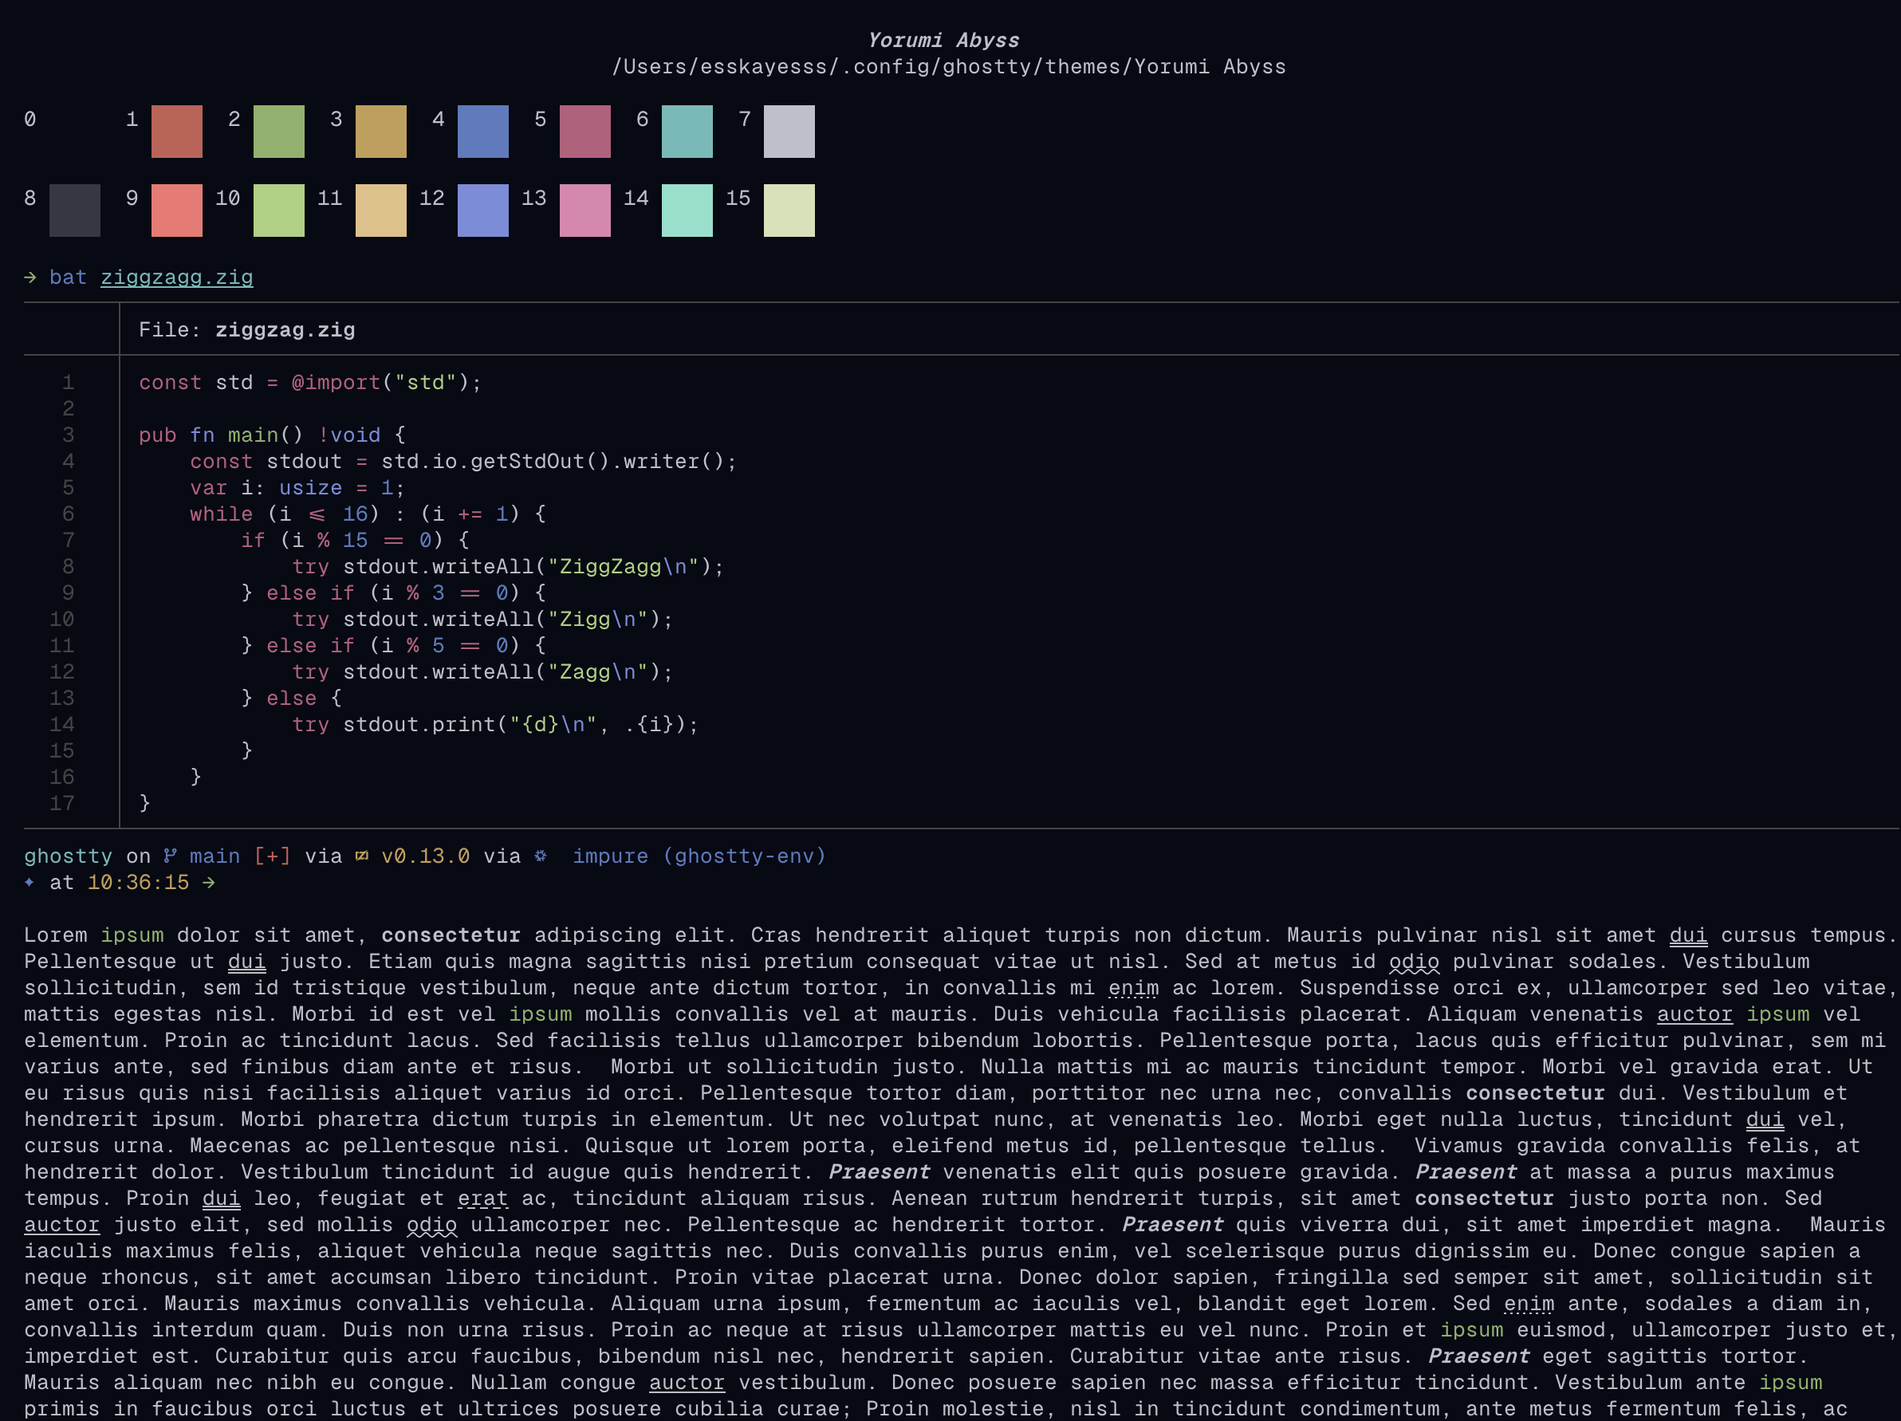
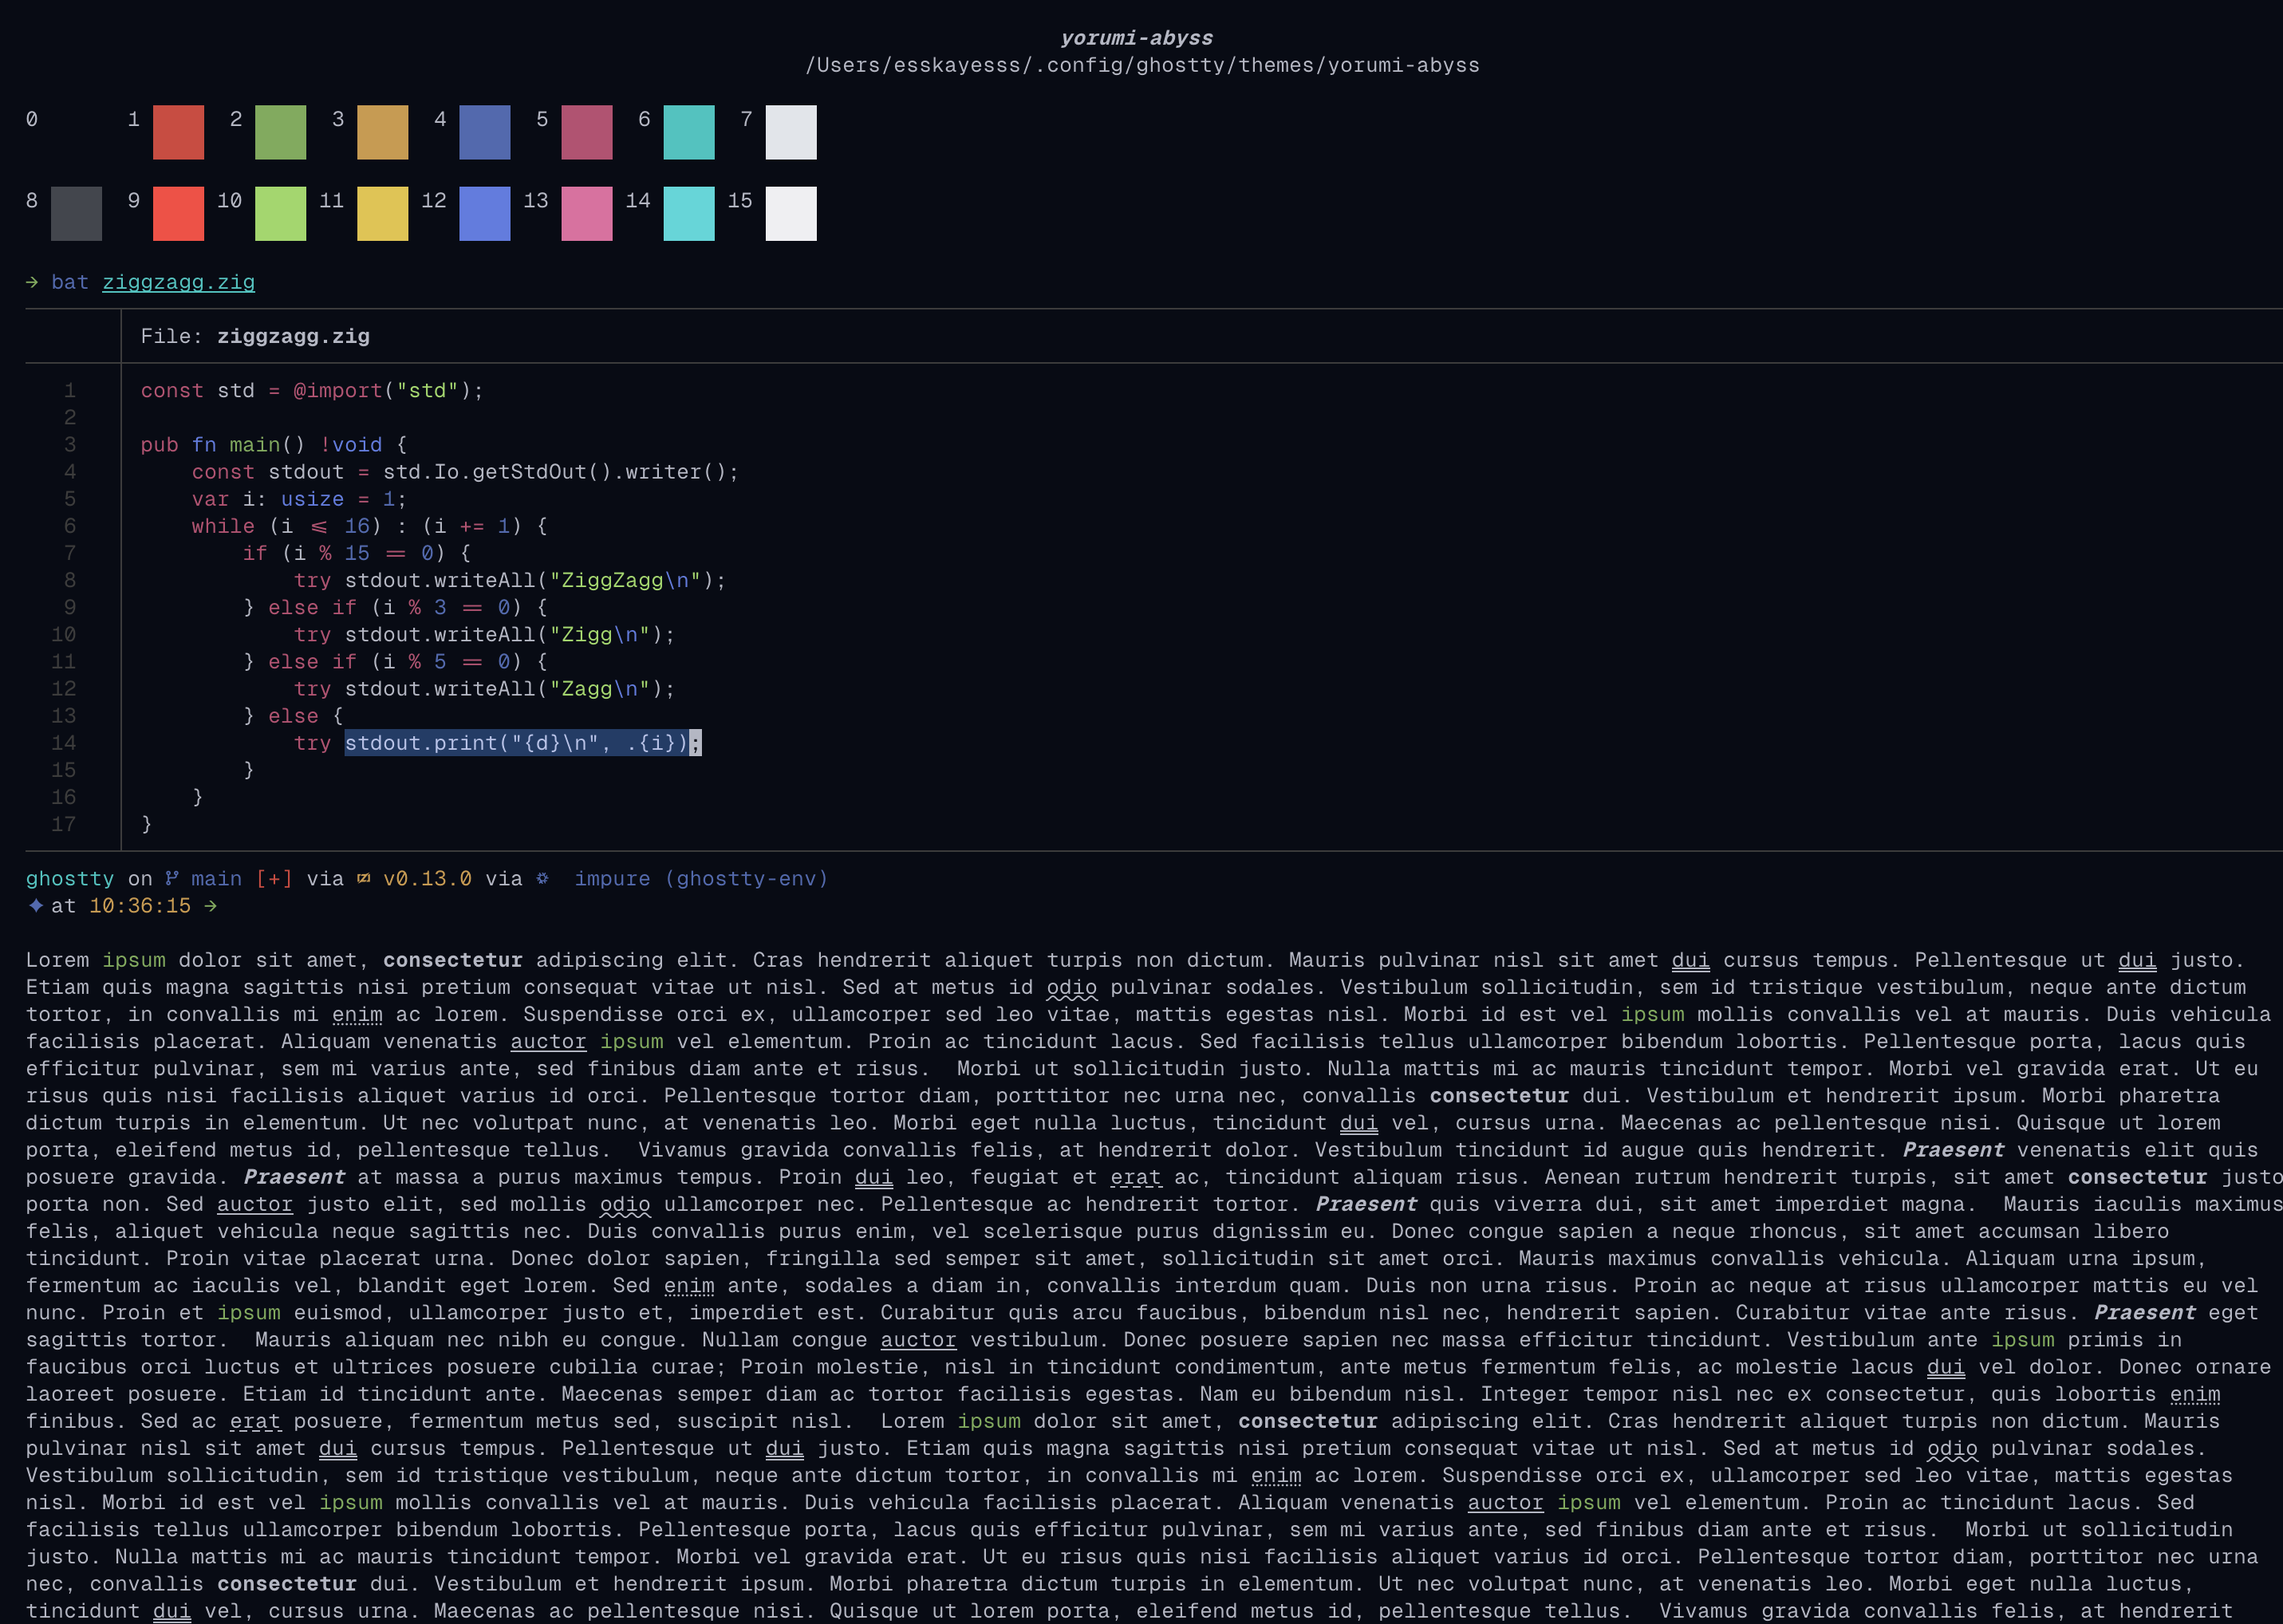
feat: add new Yorumi Ghostty themes
- Added two new themes: Yorumi Ether and Yorumi Bifrost.
- Updated README with download and configuration instructions for the new themes.
- Modified existing themes Yorumi Abyss and Yorumi Mist with updated color palettes.
- Updated screenshots for Yorumi Abyss and Yorumi Mist.
- Added a .gitignore file to exclude .DS_STORE files.

diff --git a/README.md b/README.md
@@ -4,15 +4,17 @@
 
 Download the themes into `$HOME/.config/ghostty/themes`
 ```sh
+curl -L -o /tmp/yorumi-ether https://raw.githubusercontent.com/yorumicolors/ghostty/refs/heads/main/yorumi-ether
 curl -L -o /tmp/yorumi-abyss https://raw.githubusercontent.com/yorumicolors/ghostty/refs/heads/main/yorumi-abyss
+curl -L -o /tmp/yorumi-bifrost https://raw.githubusercontent.com/yorumicolors/ghostty/refs/heads/main/yorumi-bifrost
 curl -L -o /tmp/yorumi-mist https://raw.githubusercontent.com/yorumicolors/ghostty/refs/heads/main/yorumi-mist
 mkdir -p $HOME/.config/ghostty/themes
-mv /tmp/yorumi-{abyss,mist} $HOME/.config/ghostty/themes
+mv /tmp/yorumi-{ether,abyss,bifrost,mist} $HOME/.config/ghostty/themes
 ```
 
 Set the theme of your choice in your `ghostty/config` by setting the `theme` key:
 ```
-theme = yorumi-[abyss|mist]
+theme = yorumi-[ether|abyss|bifrost|mist]
 ```
 
 | <img src="/res/yorumi-abyss.png" /> | <img src="/res/yorumi-mist.png" /> |
